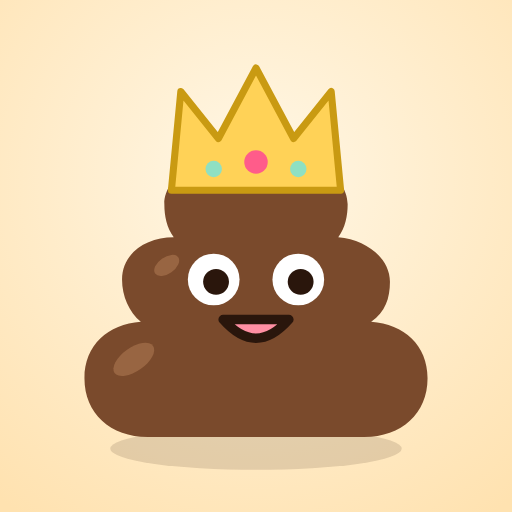
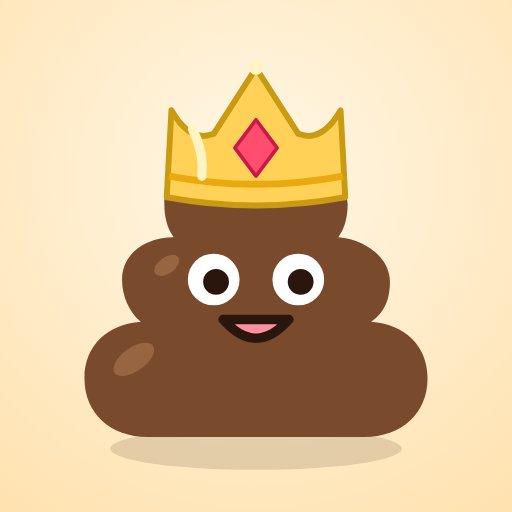
Corona nueva en la app y los íconos
Claude-Session: https://claude.ai/code/session_014obZPhnwzEfdQbKeM2P8WL

Changed region(s): [[0.3125, 0.1562, 0.6875, 0.4062], [0.4688, 0.125, 0.5312, 0.1875]]

diff --git a/index.html b/index.html
@@ -495,7 +495,7 @@ const HAT={
  chef:`<g fill="#fff" stroke="#d8d0c4" stroke-width="2.5"><circle cx="80" cy="44" r="16"/><circle cx="120" cy="44" r="16"/><circle cx="100" cy="30" r="19"/></g><rect x="70" y="40" width="60" height="16" fill="#fff"/><rect x="66" y="54" width="68" height="22" rx="4" fill="#fff" stroke="#d8d0c4" stroke-width="2.5"/>`,
  galera:`<rect x="74" y="12" width="52" height="54" rx="5" fill="#2b2a3a" stroke="#111" stroke-width="2.5"/><rect x="74" y="48" width="52" height="9" fill="#ff7a8a"/><rect x="58" y="62" width="84" height="12" rx="6" fill="#2b2a3a" stroke="#111" stroke-width="2.5"/>`,
  vikingo:`<path d="M68 62Q48 54 48 24Q60 46 76 50Z" fill="#fff3dc" stroke="#b38f5c" stroke-width="2.5" stroke-linejoin="round"/><path d="M132 62Q152 54 152 24Q140 46 124 50Z" fill="#fff3dc" stroke="#b38f5c" stroke-width="2.5" stroke-linejoin="round"/><path d="M62 78Q62 28 100 28Q138 28 138 78Z" fill="#b9c2cc" stroke="#6e7a88" stroke-width="3" stroke-linejoin="round"/><path d="M62 76h76" stroke="#8c6a3c" stroke-width="8" stroke-linecap="round"/><g fill="#ffd257"><circle cx="76" cy="76" r="2.5"/><circle cx="100" cy="76" r="2.5"/><circle cx="124" cy="76" r="2.5"/></g>`,
- corona:`<path d="M64 76L68 34L84 54L100 24L116 54L132 34L136 76Z" fill="#ffd257" stroke="#c99a12" stroke-width="3" stroke-linejoin="round"/><circle cx="100" cy="64" r="5" fill="#ff5c8a"/><circle cx="82" cy="67" r="3.5" fill="#8fe0c2"/><circle cx="118" cy="67" r="3.5" fill="#8fe0c2"/>`,
+ corona:`<path d="M62 79L64 42Q72 56 82 52L100 24L118 52Q128 56 136 42L138 79Q100 86 62 79Z" fill="#ffd257" stroke="#c99a12" stroke-width="2.5" stroke-linejoin="round"/><path d="M63 70Q100 77 137 70" stroke="#e9a90f" stroke-width="3" fill="none"/><path d="M100 46l9 12-9 12-9-12Z" fill="#ff4d6d" stroke="#c9184a" stroke-width="1.5" stroke-linejoin="round"/><path d="M73 50Q78 60 77 70" stroke="#fff4c2" stroke-width="4" fill="none" stroke-linecap="round"/><circle cx="100" cy="24" r="3" fill="#fff4c2"/>`,
  coronat:`<path d="M62 76L66 30L84 52L100 18L116 52L134 30L138 76Z" fill="#c3aefc" stroke="#7c62cf" stroke-width="3" stroke-linejoin="round"/><path d="M63 70h74" stroke="#ffd257" stroke-width="8"/>${STAR(100,48,9,'#ffd257')}`,
  vaquero:`<path d="M70 68Q72 26 100 32Q128 26 130 68Z" fill="#c98a4e" stroke="#8a5326" stroke-width="3" stroke-linejoin="round"/><path d="M72 58h56" stroke="#3a2316" stroke-width="6"/><path d="M38 64Q100 92 162 64Q160 80 100 82Q40 80 38 64Z" fill="#c98a4e" stroke="#8a5326" stroke-width="3" stroke-linejoin="round"/>`,
  boina:`<ellipse cx="98" cy="62" rx="42" ry="15" fill="#e0566a" stroke="#a8323f" stroke-width="3" transform="rotate(-8 98 62)"/><path d="M96 48l2-9" stroke="#a8323f" stroke-width="4" stroke-linecap="round"/>`,
@@ -632,7 +632,7 @@ const ICON={
  brush:`<svg viewBox="0 0 24 24" fill="none" stroke="currentColor" stroke-width="2.4" stroke-linecap="round" stroke-linejoin="round"><path d="M14 4l6 6-8 8-6-6z"/><path d="M6 12l-2 6 2 2 6-2"/></svg>`,
  coin:`<svg class="ic" viewBox="0 0 20 20" aria-hidden="true"><circle cx="10" cy="10" r="9" fill="#ffd257" stroke="#d99a0b" stroke-width="2"/><ellipse cx="10" cy="12.6" rx="4.2" ry="1.9" fill="#d99a0b"/><ellipse cx="10" cy="9.6" rx="3" ry="1.5" fill="#d99a0b"/><path d="M9 6.2q1.6-1 2.4.4" stroke="#d99a0b" stroke-width="1.6" fill="none"/></svg>`,
  flame:`<svg class="ic" viewBox="0 0 20 20" aria-hidden="true"><path d="M10 1c1 4 6 6 6 11a6 6 0 0 1-12 0c0-3 2-4 3-6 1 2 2 2 2 2-1-3 0-5 1-7z" fill="#ff9f43"/><path d="M10 9c.5 2 3 3 3 5a3 3 0 0 1-6 0c0-1.5 1-2 1.5-3 .5 1 1 1 1 1z" fill="#ffd257"/></svg>`,
- crown:`<svg viewBox="0 0 24 24" aria-hidden="true"><path d="M3 18L4 7l5 5 3-7 3 7 5-5 1 11z" fill="#ffd257" stroke="#c99a12" stroke-width="1.5" stroke-linejoin="round"/></svg>`,
+ crown:`<svg viewBox="0 0 24 24" aria-hidden="true"><path d="M3 19.5L3.4 8.5Q5.4 12.4 8 11.6L12 4.2L16 11.6Q18.6 12.4 20.6 8.5L21 19.5Q12 21.4 3 19.5Z" fill="#ffd257" stroke="#c99a12" stroke-width="1.3" stroke-linejoin="round"/><path d="M12 10.2l2 2.8-2 2.8-2-2.8Z" fill="#ff4d6d"/></svg>`,
  lock:`<svg viewBox="0 0 16 16" fill="currentColor" aria-hidden="true"><rect x="3" y="7" width="10" height="8" rx="2"/><path d="M5 7V5a3 3 0 0 1 6 0v2" fill="none" stroke="currentColor" stroke-width="2"/></svg>`,
  roll:on=>`<svg viewBox="0 0 40 40" aria-hidden="true"><rect x="7" y="9" width="22" height="24" rx="3" fill="${on?'#fff':'#e9dccb'}" stroke="${on?'#e9a90f':'#c2ad90'}" stroke-width="2.5"/><ellipse cx="18" cy="9" rx="11" ry="4" fill="${on?'#fff6d8':'#f3ebe0'}" stroke="${on?'#e9a90f':'#c2ad90'}" stroke-width="2.5"/><ellipse cx="18" cy="9" rx="3.5" ry="1.4" fill="#b89a72"/><path d="M29 22q7 5 2 13" stroke="${on?'#fff':'#e9dccb'}" stroke-width="5" fill="none"/></svg>`,
  medal:(c,on)=>`<svg viewBox="0 0 40 40" aria-hidden="true"><path d="M12 2l8 14 8-14" fill="none" stroke="${on?'#8a6fd6':'#bbb'}" stroke-width="5"/><circle cx="20" cy="25" r="12" fill="${c}" stroke="#00000022" stroke-width="3"/><circle cx="20" cy="25" r="6" fill="#fff" opacity=".45"/></svg>`

diff --git a/sw.js b/sw.js
@@ -3,7 +3,7 @@
    - Nunca guarda datos de Supabase: rankings, actividad y chat siempre vienen frescos de la red.
    - Sin conexión, la navegación muestra offline.html.
    - Las versiones nuevas esperan hasta que la persona toca "Actualizar". */
-const VERSION = 'trono-v1';
+const VERSION = 'trono-v2';
 const SHELL = ['./', './index.html', './offline.html', './manifest.webmanifest', './vendor/supabase.js',
   './icons/icon-192.png', './icons/icon-512.png', './icons/apple-touch-icon.png', './icons/favicon-32.png'];
 
